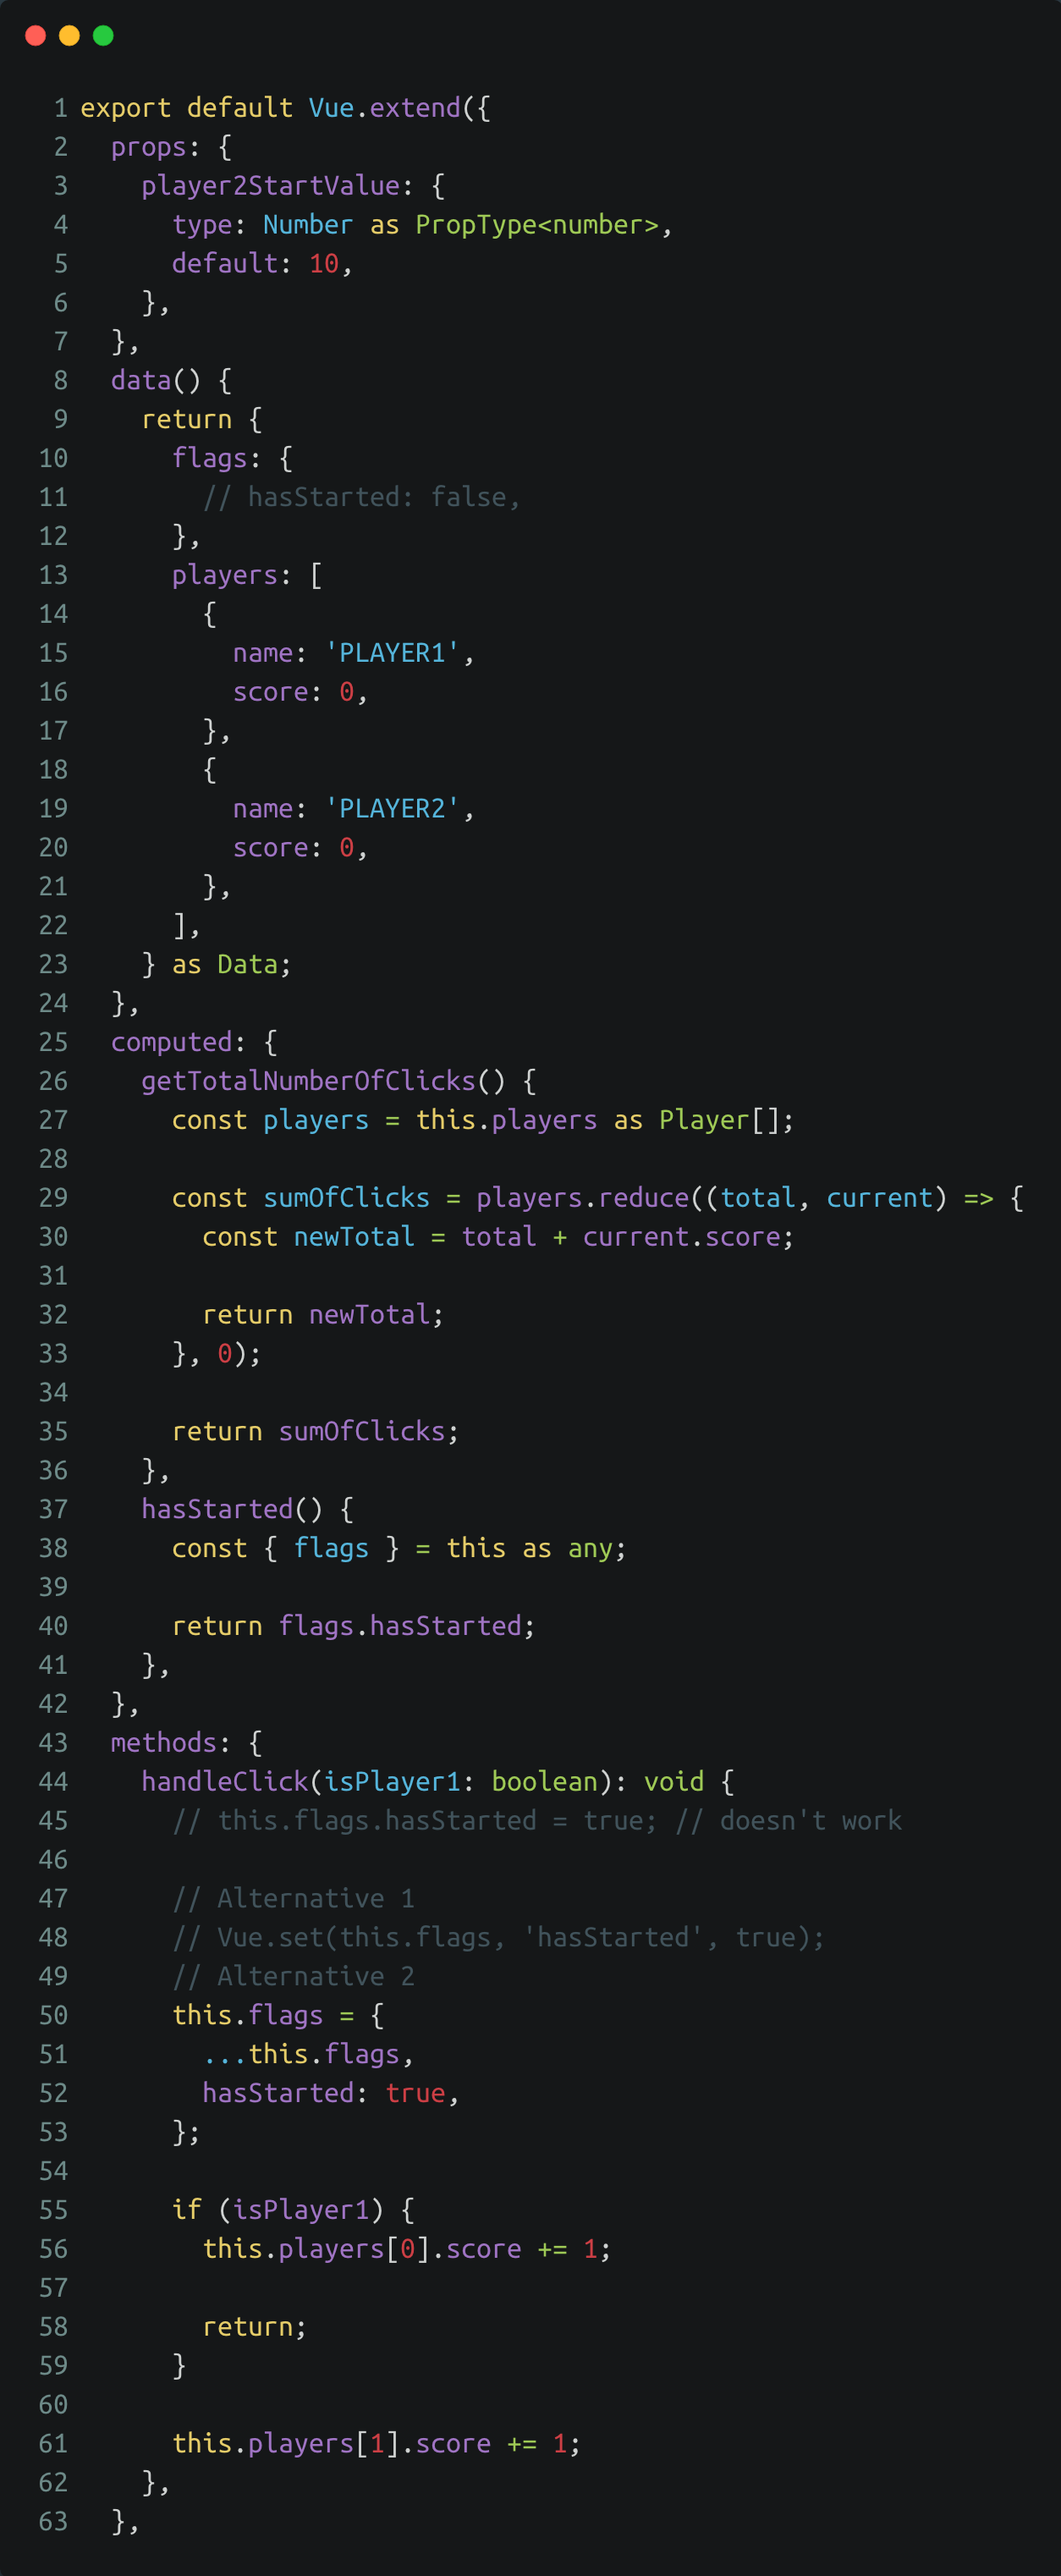
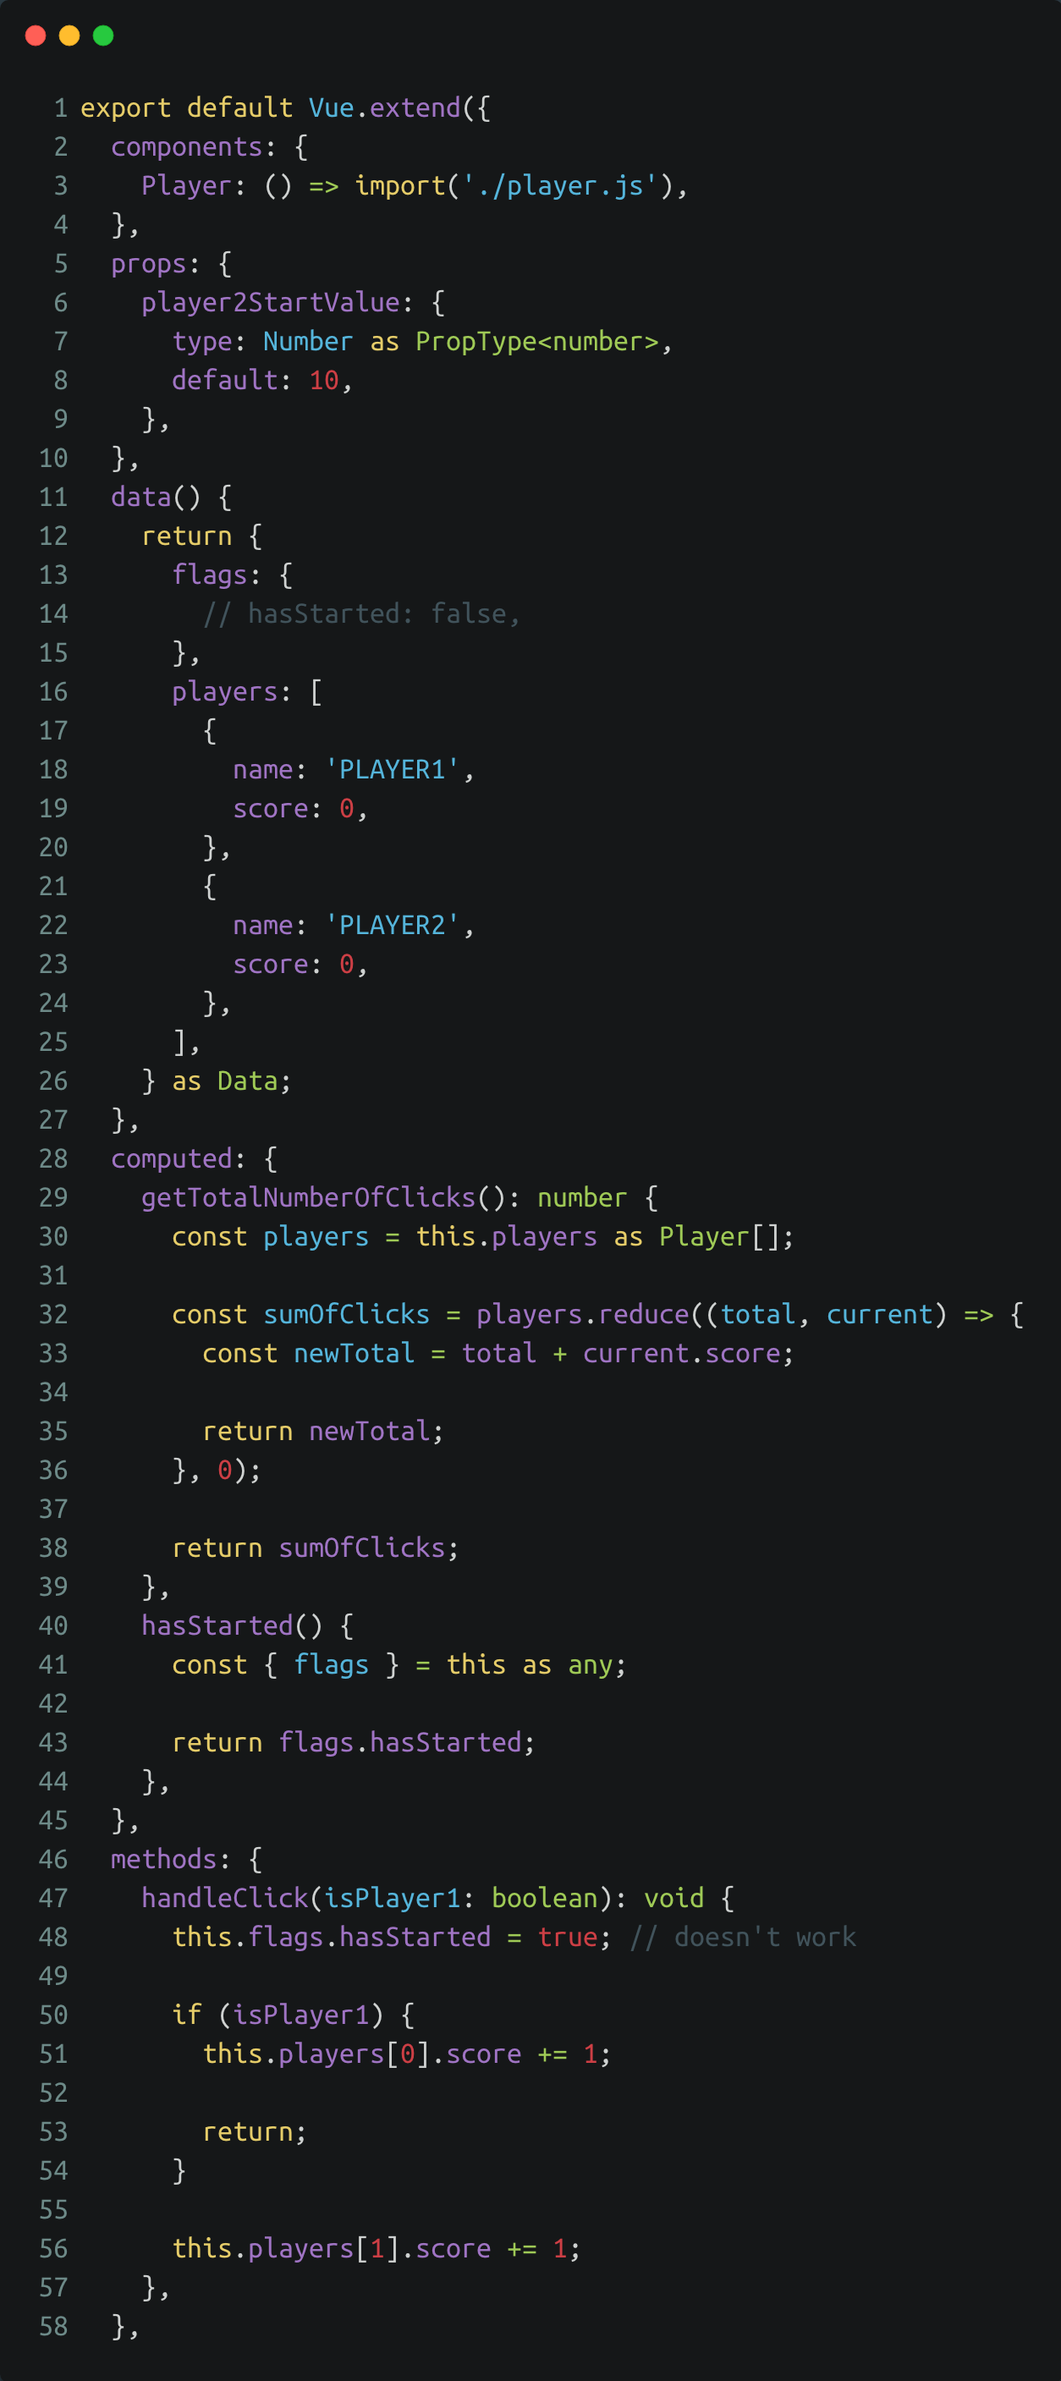
Split up vue2 app

diff --git a/code/examples/vue2-issues-1/component.ts b/code/examples/vue2-issues-1/component.ts
@@ -2,12 +2,10 @@ import Vue, { PropType } from 'vue2';
 
 const names = ['Player1', 'Player2'] as const;
 const flagNames = ['hasStarted'] as const;
-type Key = Lowercase<typeof names[number]>
 type Name = Uppercase<typeof names[number]>
 type Player = {
   name: Name,
   score: number,
-  key: Key
 }
 type Flags = typeof flagNames[number]
 type Data = {
@@ -16,6 +14,9 @@ type Data = {
 }
 
 export default Vue.extend({
+  components: {
+    Player: () => import('./player.js'),
+  },
   props: {
     player2StartValue: {
       type: Number as PropType<number>,
@@ -40,7 +41,7 @@ export default Vue.extend({
     } as Data;
   },
   computed: {
-    getTotalNumberOfClicks() {
+    getTotalNumberOfClicks(): number {
       const players = this.players as Player[];
 
       const sumOfClicks = players.reduce((total, current) => {
@@ -59,15 +60,7 @@ export default Vue.extend({
   },
   methods: {
     handleClick(isPlayer1: boolean): void {
-      // this.flags.hasStarted = true; // doesn't work
-
-      // Alternative 1
-      // Vue.set(this.flags, 'hasStarted', true);
-      // Alternative 2
-      this.flags = {
-        ...this.flags,
-        hasStarted: true,
-      };
+      this.flags.hasStarted = true; // doesn't work
 
       if (isPlayer1) {
         this.players[0].score += 1;
@@ -85,30 +78,19 @@ export default Vue.extend({
         ({{ !!hasStarted ? 'has started' : 'has not started'}})
       </h1>
       <div>
-        <dl>
-          <dt>{{ players[0].name }}</dt>
-          <dd> {{ players[0].score }}</dd>
-        </dl>
-        <button
-          type="button"
-          @click="handleClick(true)"
-        >
-          Click
-        </button>
-      </div>
-      <hr />
-      <div>
-        <dl>
-          <dt>{{ players[1].name }}</dt>
-          <dd> {{ players[1].score }}</dd>
-        </dl>
-        <button
-          type="button"
-          @click="() => handleClick(false)"
-        >
-          Click
-        </button>
+        <Player :player="players[0]" @update-player="handleClick(true)" />
+        <hr />
+        <Player :player="players[1]" @update-player="handleClick(false)" />
       </div>
     </div>
   `,
 });
+
+// Removed for sake of brevity
+// Alternative 1
+// Vue.set(this.flags, 'hasStarted', true);
+// Alternative 2
+// this.flags = {
+//   ...this.flags,
+//   hasStarted: true,
+// };

diff --git a/code/examples/vue2-issues-1/component.js b/code/examples/vue2-issues-1/component.js
@@ -2,6 +2,9 @@ import Vue from 'vue2';
 const names = ['Player1', 'Player2'];
 const flagNames = ['hasStarted'];
 export default Vue.extend({
+    components: {
+        Player: () => import('./player.js'),
+    },
     props: {
         player2StartValue: {
             type: Number,
@@ -41,14 +44,7 @@ export default Vue.extend({
     },
     methods: {
         handleClick(isPlayer1) {
-            // this.flags.hasStarted = true; // doesn't work
-            // Alternative 1
-            // Vue.set(this.flags, 'hasStarted', true);
-            // Alternative 2
-            this.flags = {
-                ...this.flags,
-                hasStarted: true,
-            };
+            this.flags.hasStarted = true; // doesn't work
             if (isPlayer1) {
                 this.players[0].score += 1;
                 return;
@@ -63,30 +59,18 @@ export default Vue.extend({
         ({{ !!hasStarted ? 'has started' : 'has not started'}})
       </h1>
       <div>
-        <dl>
-          <dt>{{ players[0].name }}</dt>
-          <dd> {{ players[0].score }}</dd>
-        </dl>
-        <button
-          type="button"
-          @click="handleClick(true)"
-        >
-          Click
-        </button>
-      </div>
-      <hr />
-      <div>
-        <dl>
-          <dt>{{ players[1].name }}</dt>
-          <dd> {{ players[1].score }}</dd>
-        </dl>
-        <button
-          type="button"
-          @click="() => handleClick(false)"
-        >
-          Click
-        </button>
+        <Player :player="players[0]" @update-player="handleClick(true)" />
+        <hr />
+        <Player :player="players[1]" @update-player="handleClick(false)" />
       </div>
     </div>
   `,
 });
+// Removed for sake of brevity
+// Alternative 1
+// Vue.set(this.flags, 'hasStarted', true);
+// Alternative 2
+// this.flags = {
+//   ...this.flags,
+//   hasStarted: true,
+// };

diff --git a/code/examples/vue2-issues-1/player.ts b/code/examples/vue2-issues-1/player.ts
@@ -1,0 +1,39 @@
+import Vue, { PropType } from 'vue2';
+
+const names = ['Player1', 'Player2'] as const;
+type Name = Uppercase<typeof names[number]>
+type Player = {
+  name: Name,
+  score: number,
+}
+
+export default Vue.extend({
+  props: {
+    player: {
+      type: Object as PropType<Player>,
+      default: () => ({
+        name: 'Ted',
+        score: 0,
+      }),
+    },
+  },
+  methods: {
+    handleClick(): void {
+      this.$emit('update-player');
+    },
+  },
+  template: `
+    <div>
+      <dl>
+        <dt>{{ player.name }}</dt>
+        <dd>{{ player.score }}</dd>
+      </dl>
+      <button
+        type="button"
+        @click="handleClick()"
+      >
+        Click
+      </button>
+    </div>
+  `,
+});

diff --git a/code/examples/vue2-issues-1/player.js b/code/examples/vue2-issues-1/player.js
@@ -1,0 +1,32 @@
+import Vue from 'vue2';
+const names = ['Player1', 'Player2'];
+export default Vue.extend({
+    props: {
+        player: {
+            type: Object,
+            default: () => ({
+                name: 'Ted',
+                score: 0,
+            }),
+        },
+    },
+    methods: {
+        handleClick() {
+            this.$emit('update-player');
+        },
+    },
+    template: `
+    <div>
+      <dl>
+        <dt>{{ player.name }}</dt>
+        <dd>{{ player.score }}</dd>
+      </dl>
+      <button
+        type="button"
+        @click="handleClick()"
+      >
+        Click
+      </button>
+    </div>
+  `,
+});

diff --git a/code/examples/vue2-issues-1/index.html b/code/examples/vue2-issues-1/index.html
@@ -10,7 +10,8 @@
       {
         "imports": {
           "vue2": "../../libs/vue2.esm-browser.js",
-          "component": "./component.js"
+          "component": "./component.js",
+          "player": "./player.js"
         }
       }
     </script>
